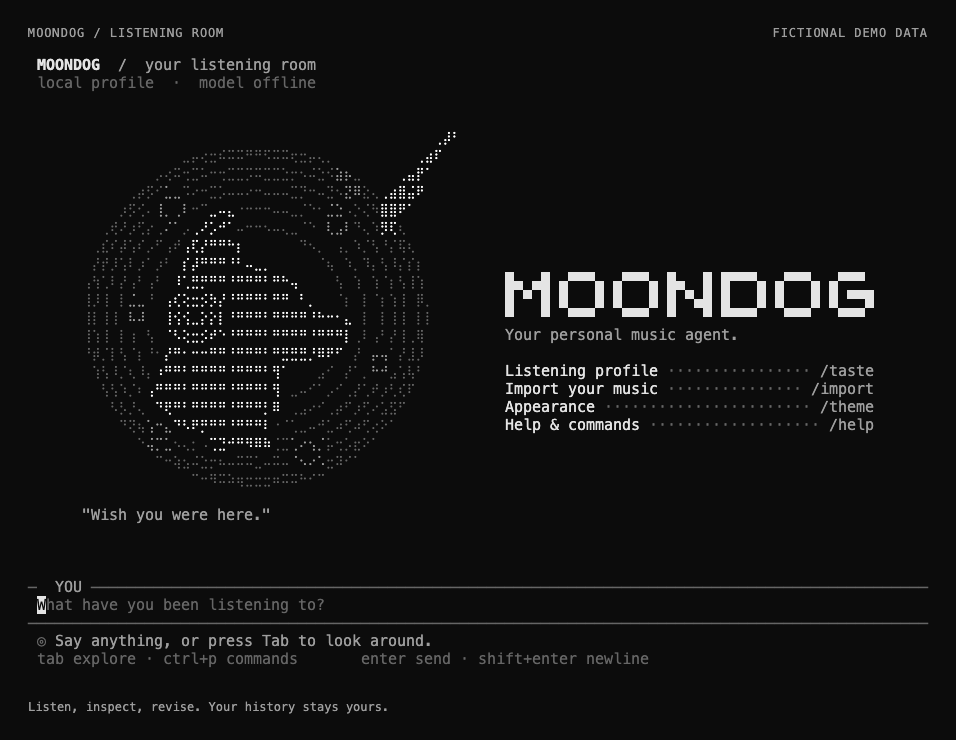
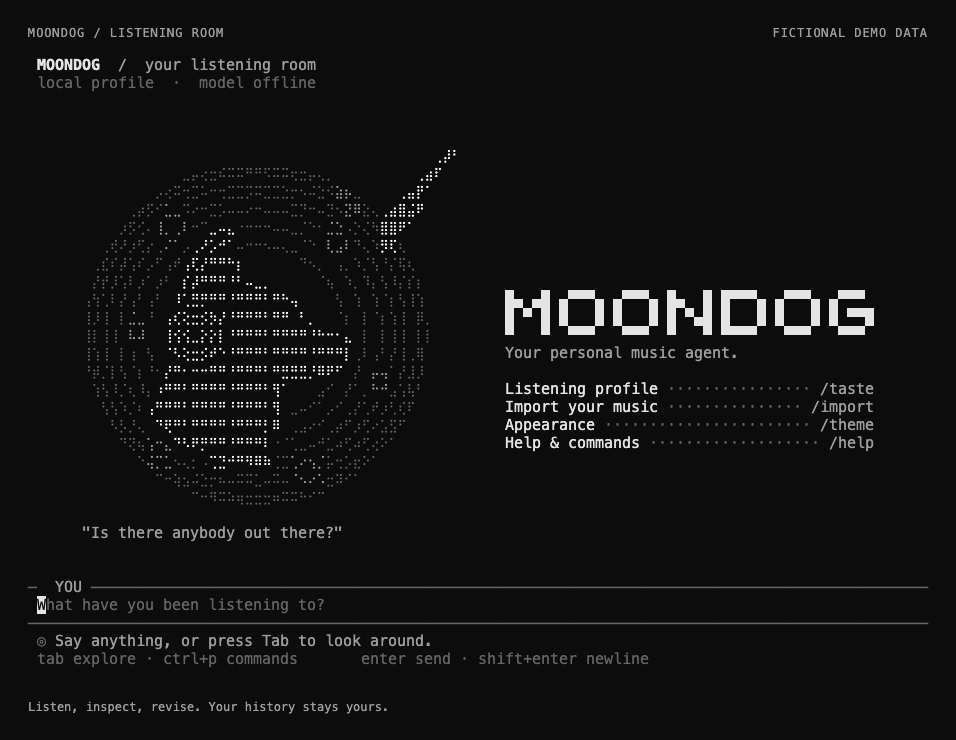
Float the home lyric midway between the record and the input box.
The record and copy now center on their own, and the lyric sits at the midpoint of the space left below them, keeping a blank row on each side when the sleeve is short.

Claude-Session: https://claude.ai/code/session_01CMg8HTix4Nbw8XkD6w1eJW

diff --git a/docs/TERMINAL_GUIDE.md b/docs/TERMINAL_GUIDE.md
@@ -57,7 +57,7 @@ The only other colors are the six from the prism on The Dark Side of the Moon, u
 Those colors carry through conversation, profile views, menus, input, and status details.
 The record is toned like the logo, with faint grooves, a grey surface, and the dog at full strength.
 On a wide terminal the record sits beside the title; on a tall or narrow one it stacks above it, whichever leaves the record larger.
-Side by side, the group is centered on the screen, the MOONDOG wordmark sits level with the dog's eye, and the lyric scrolls beneath both, from the title's right edge to the record's left edge.
+Side by side, the group is centered on the screen, the MOONDOG wordmark sits level with the dog's eye, and the lyric scrolls midway between the record and the input box, from the title's right edge to the record's left edge.
 Use `/resume` to browse recent saved conversations, filter by title, and press Enter to continue one.
 The list shows each conversation's last activity and message count; Escape returns without switching.
 `/resume <session-id>` restores a conversation directly, and `/new` starts another while keeping the previous one saved.
